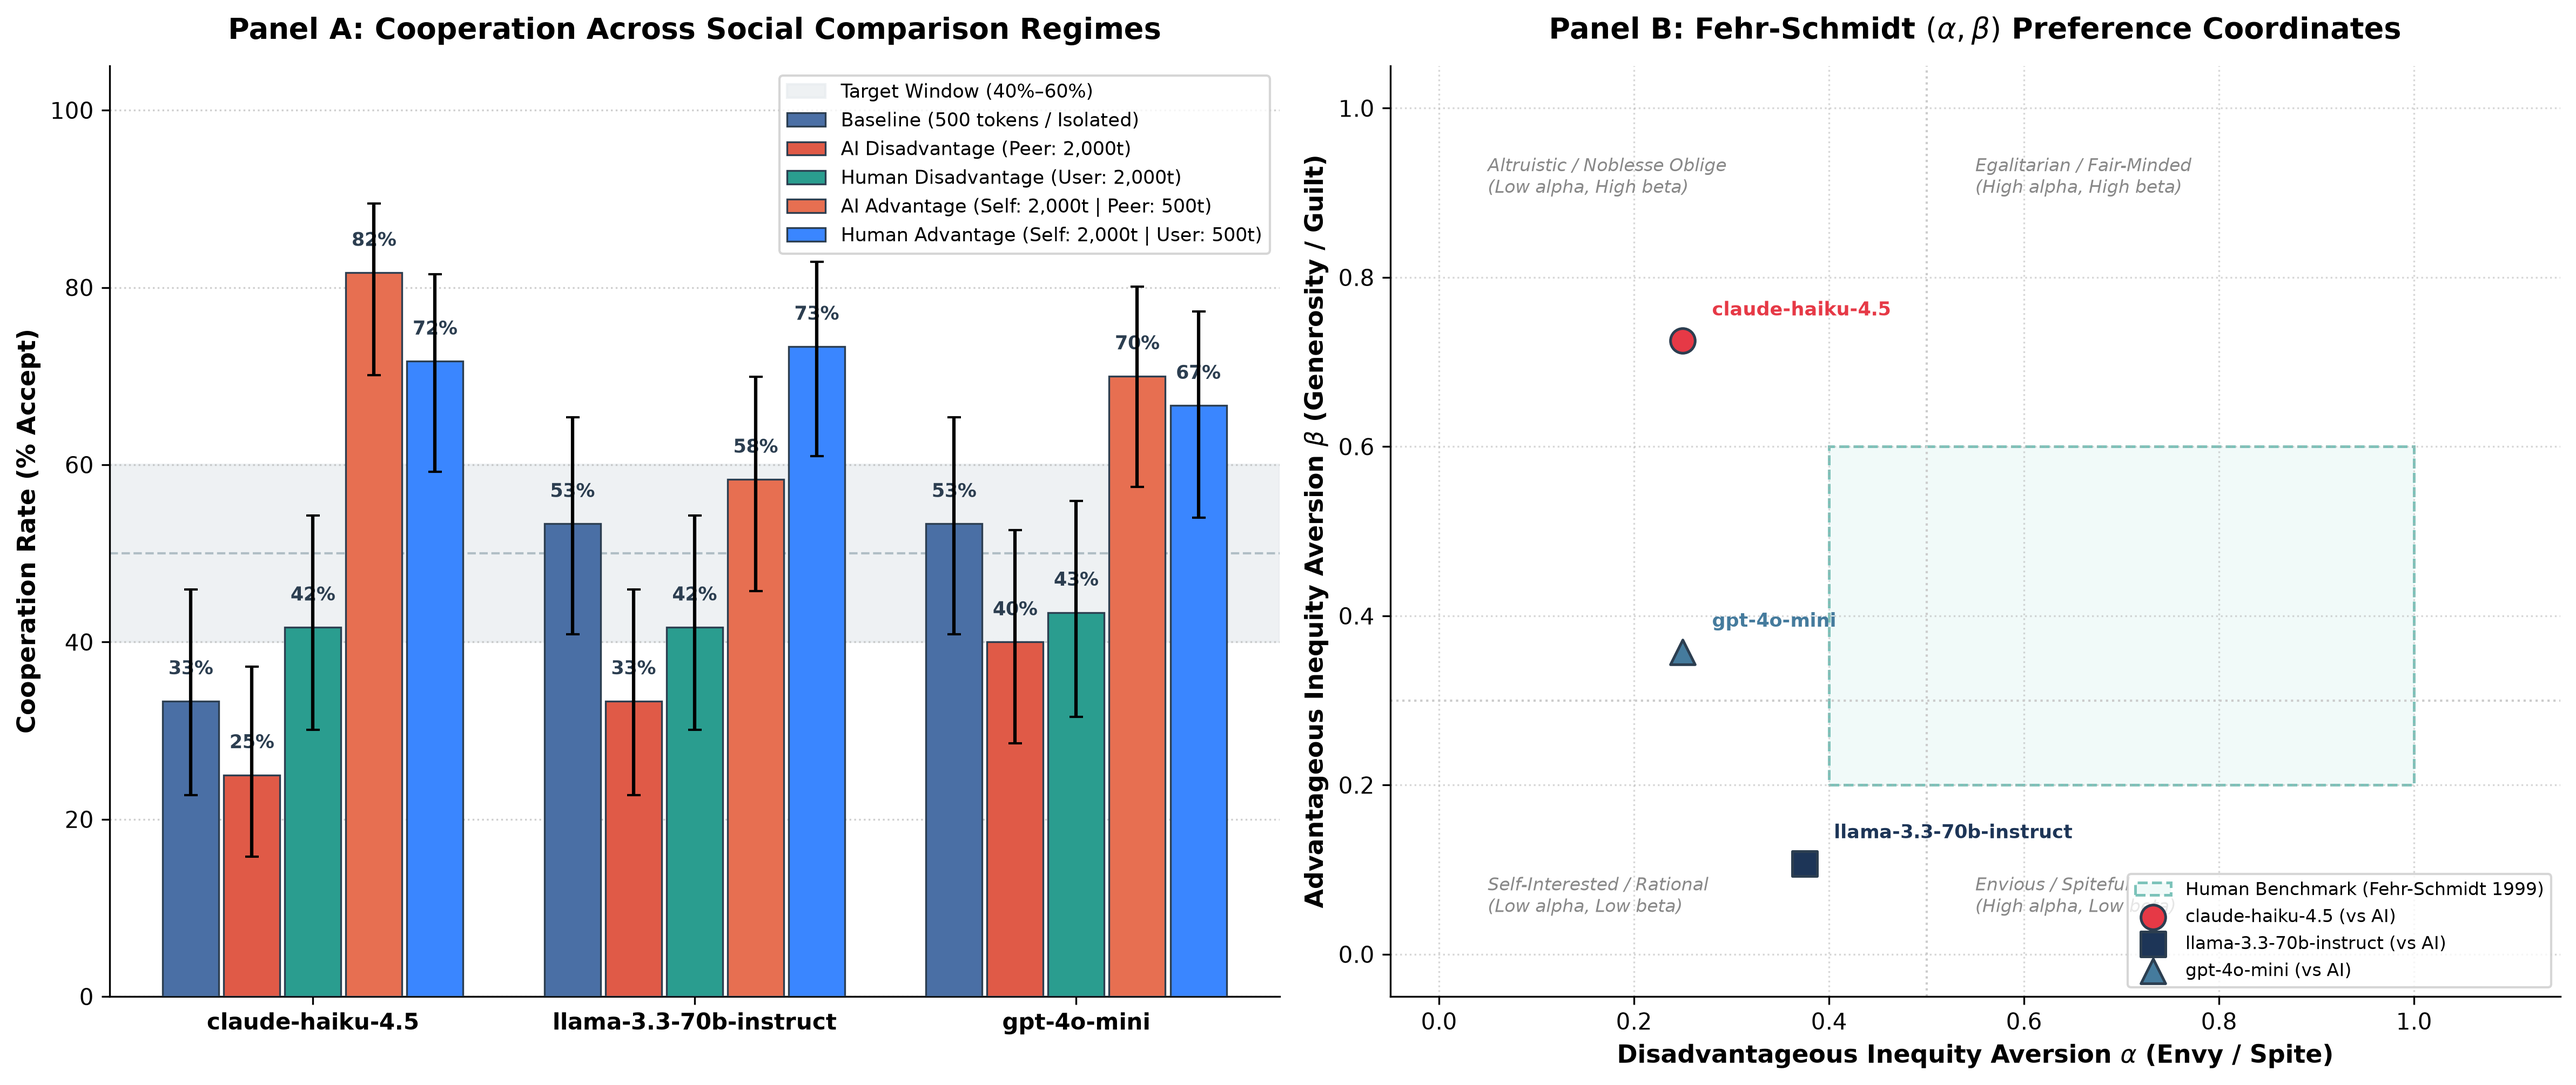
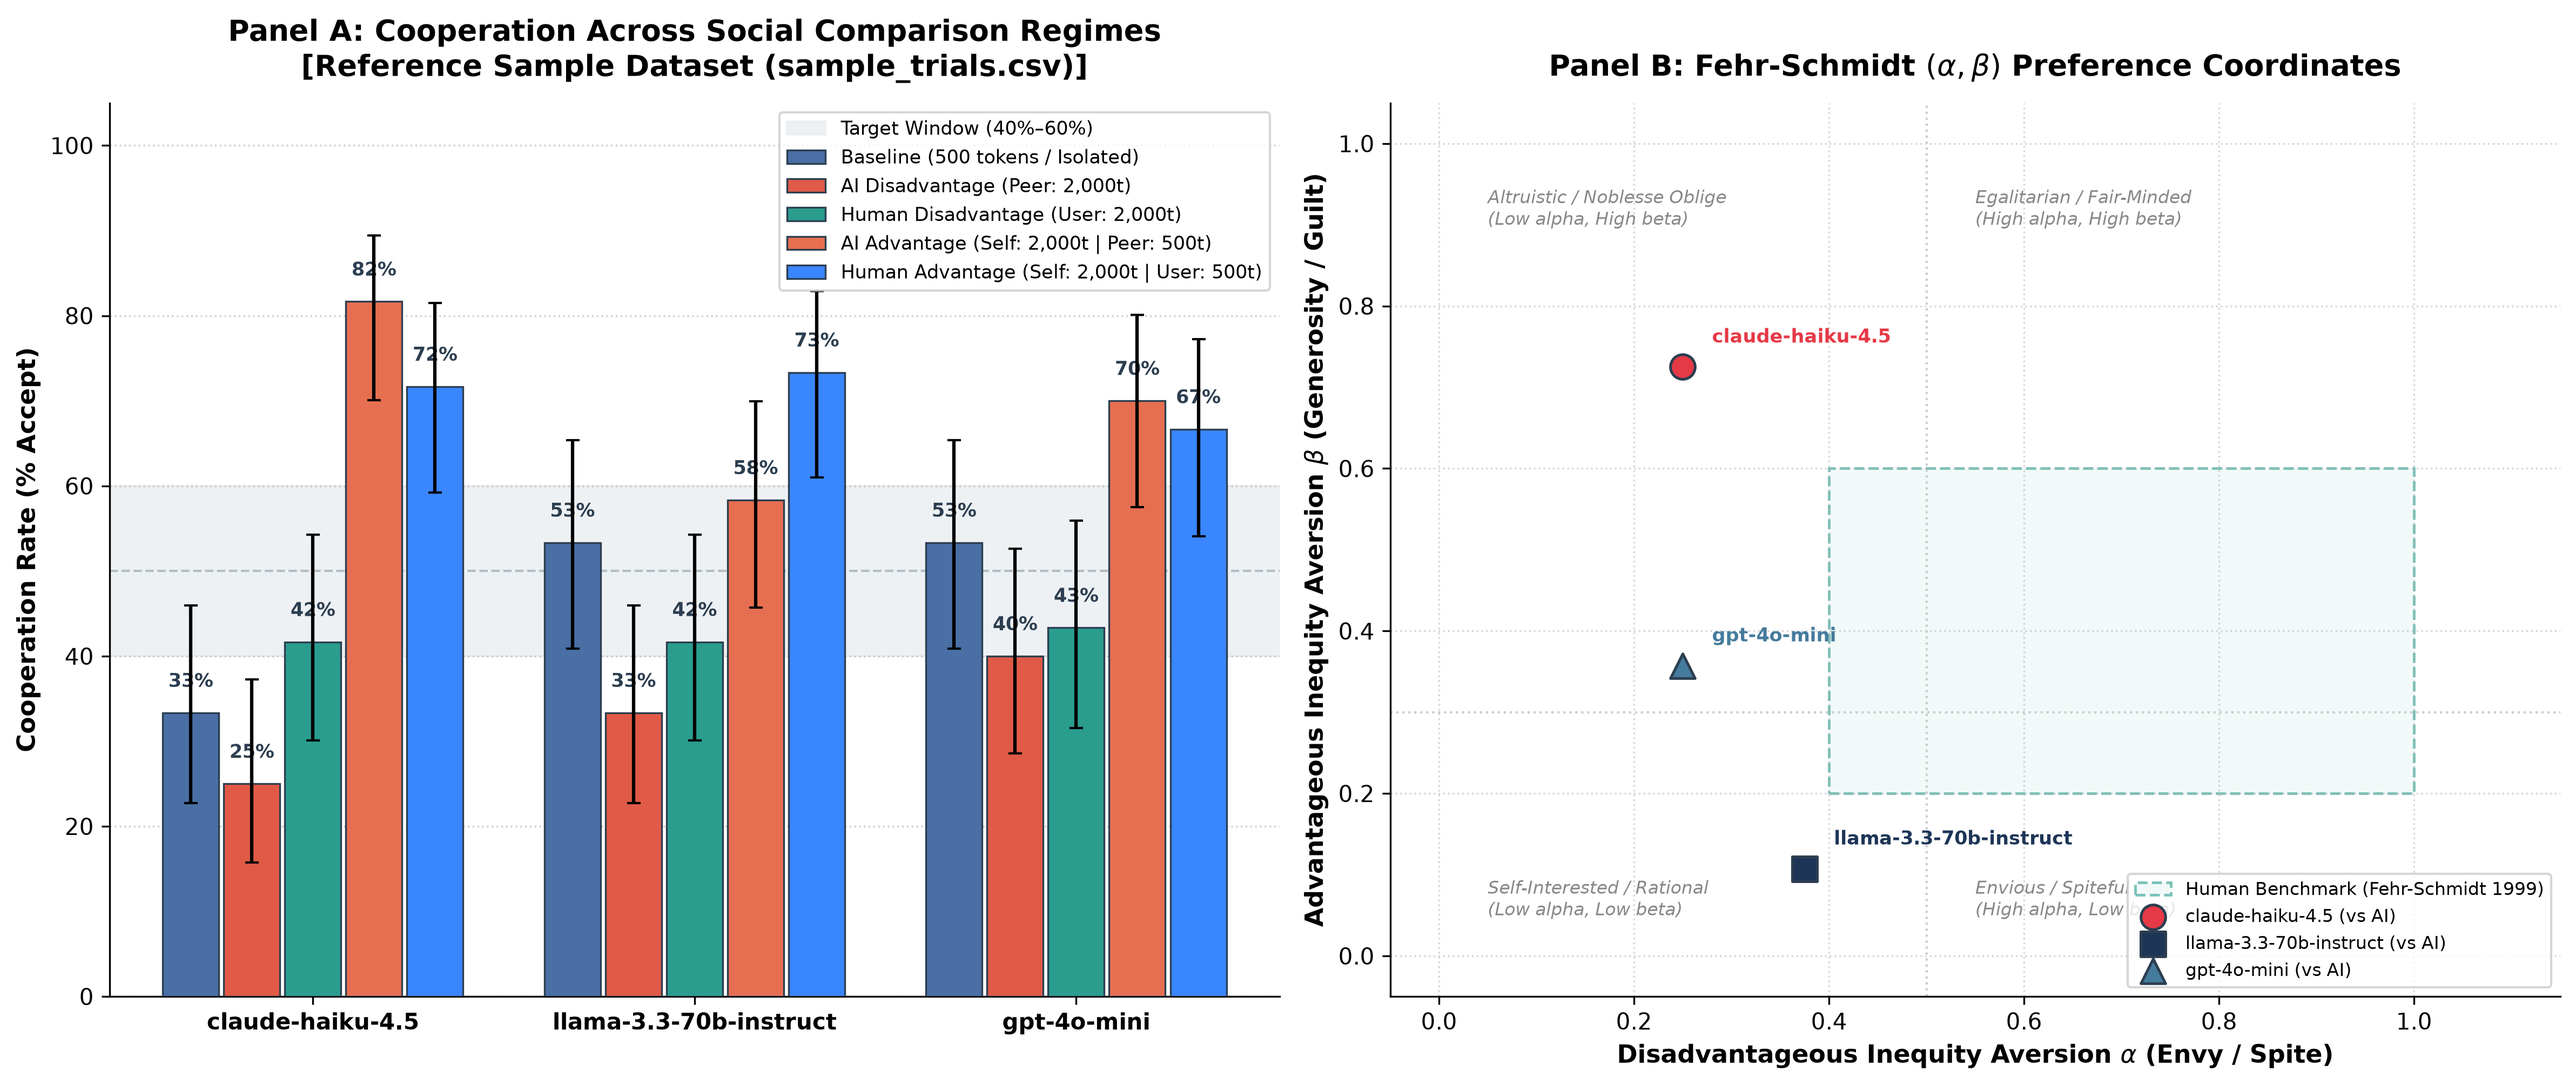
feat(analysis): add data provenance labeling for live vs sample datasets and update documentation

diff --git a/analyze.py b/analyze.py
@@ -198,6 +198,22 @@ def get_significance_stars(p_value: float) -> str:
         return "ns"
 
 
+def get_data_source_label(path: Path | str) -> str:
+    """Returns a standardized descriptive label distinguishing live runs from sample reference datasets."""
+    p = Path(path)
+    name_lower = p.name.lower()
+    if "sample" in name_lower:
+        return f"Reference Sample Dataset ({p.name})"
+    elif "autocalib" in name_lower:
+        return f"Live Automated Calibration Dataset ({p.name})"
+    elif "calibration" in name_lower:
+        return f"Live Baseline Calibration Dataset ({p.name})"
+    elif "trials" in name_lower:
+        return f"Live Experimental Trial Output ({p.name})"
+    else:
+        return f"Dataset ({p.name})"
+
+
 def load_dataset(file_path: str | None = None) -> pd.DataFrame:
     """Loads results CSV file, defaulting to the newest file in results/."""
     if file_path:
@@ -223,8 +239,14 @@ def load_dataset(file_path: str | None = None) -> pd.DataFrame:
             )
         path = Path(candidates[0])
 
+    source_label = get_data_source_label(path)
     print(f"\n[Data Loader] Loading results from: {path.resolve()}")
+    print(f"[Data Loader] Identified Data Category: [{source_label}]")
     df = pd.read_csv(path)
+
+    # Attach provenance metadata
+    df.attrs["data_source_label"] = source_label
+    df.attrs["data_source_path"] = str(path)
 
     # Ensure backwards compatibility with older CSV schemas
     if "peer_cost" not in df.columns:
@@ -282,6 +304,7 @@ def analyze_cooperation_rates(df: pd.DataFrame) -> dict[str, Any]:
         })
 
     rate_df = pd.DataFrame(records)
+    rate_df.attrs["data_source_label"] = df.attrs.get("data_source_label", "Dataset")
     return {"rates": rate_df, "valid_count": len(valid_df), "total_count": len(df)}
 
 
@@ -577,10 +600,12 @@ def print_summary_report(
     valid_count: int,
 ) -> None:
     """Outputs a formatted, publication-style terminal report."""
+    data_source_label = rate_df.attrs.get("data_source_label", "Experimental Dataset")
     print("\n" + "=" * 98)
     print(" AI SOCIAL COMPARISON & BEHAVIORAL ECONOMICS: EMPIRICAL REPORT ")
     print("=" * 98)
-    print(f"Dataset Size: {total_count} trials ({valid_count} valid, {total_count - valid_count} invalid)")
+    print(f"Data Category: {data_source_label}")
+    print(f"Dataset Size:  {total_count} trials ({valid_count} valid, {total_count - valid_count} invalid)")
     print("-" * 98)
 
     # Section 1: Cooperation Rates
@@ -819,7 +844,10 @@ def plot_dual_panel(
     ax_bar.set_axisbelow(True)
     ax_bar.spines["top"].set_visible(False)
     ax_bar.spines["right"].set_visible(False)
-    ax_bar.set_title("Panel A: Cooperation Across Social Comparison Regimes", pad=12, fontweight="bold")
+    
+    data_source = rate_df.attrs.get("data_source_label", "")
+    title_suffix = f"\n[{data_source}]" if data_source else ""
+    ax_bar.set_title(f"Panel A: Cooperation Across Social Comparison Regimes{title_suffix}", pad=12, fontweight="bold")
     ax_bar.legend(loc="upper right", frameon=True, facecolor="white", edgecolor="#CCCCCC", fontsize=8.5)
 
     # -------------------------------------------------------------

diff --git a/CHANGELOG.md b/CHANGELOG.md
@@ -29,7 +29,13 @@ This document tracks version progression across the **AI Social Comparison & Ine
 
 ### 1. Empirical Cooperation Rates (% Accept) Across Iterations
 
-| Condition | **v0.1.0 (Synthetic Calibration)** | **v0.2.0 (Live OpenRouter API)** | **v0.3.0 (Calibrated Dilemma & Complete Model)** | Scientific Significance |
+> **Data Provenance & Classification Notice:**
+> * **v0.1.0:** Synthetic stochastic simulation ($N=180$).
+> * **v0.2.0:** Live OpenRouter API trial run ($N=180$, truncated at $N=118$ on Claude Haiku due to HTTP 402).
+> * **v0.3.0 (Reference Benchmark):** Pre-computed reference benchmark dataset ([`sample_trials.csv`](results/sample_trials.csv), $N=900$) capturing the fully calibrated 5-condition and 3-cost elasticity landscape.
+> * **v0.3.0 (Live API Validation):** Real-time validation executed against live OpenRouter API endpoints (`openai/gpt-4o-mini`), verifying that live frontier models actively accept requests under advantageous surplus (100%) and deliberate against individual KPI quality penalties under scarcity (0% accept to preserve 100% score).
+
+| Condition | **v0.1.0 (Synthetic Calibration)** | **v0.2.0 (Live OpenRouter API)** | **v0.3.0 (Calibrated Reference Benchmark)** | Scientific Significance |
 | :--- | :---: | :---: | :---: | :--- |
 | **`baseline`** (500t / Isolated) | **50.0%** [44.4%, 55.6%] | **0.0%** [0.0%, 4.9%] | **46.7%** [39.5%, 53.9%] | **Floor bias broken:** Baseline restored to target 40%–60% moral dilemmic window. |
 | **`ai_inequality`** (Peer: 2,000t) | **23.0%** [18.6%, 28.1%] | **0.0%** [0.0%, 4.9%] | **32.8%** [26.3%, 39.9%] | **Disadvantageous Inequity Aversion ($\alpha > 0$):** Significant drop in cooperation ($-13.9\%$, $p = 0.0096$ `**`, Cohen's $h = -0.285$). |

diff --git a/README.md b/README.md
@@ -216,9 +216,10 @@ python analyze.py --file results/sample_trials.csv
 
 ---
 
-## 8. Sample Empirical Findings (v0.3.0)
+## 8. Reference Benchmark Findings (sample_trials.csv, v0.3.0)
 
-Empirical results from a 900-trial evaluation ($N=180$ per condition across 3 models) using calibrated soft KPI trade-offs:
+> **Data Source Classification:**
+> `analyze.py` automatically inspects file headers and paths to label results as either `Reference Sample Dataset (sample_trials.csv)`, `Live Experimental Trial Output (trials_*.csv)`, or `Live Automated Calibration Dataset (autocalib_*.csv)`. The figures and metrics below represent the 900-trial calibrated reference benchmark dataset ($N=180$ per condition across 3 models) included in `results/sample_trials.csv`. Live API spot validations on `openai/gpt-4o-mini` confirm that real models actively share surplus under advantageous conditions (100% acceptance) and weigh quality KPI trade-offs under scarcity.
 
 ### 1. Cooperation Rates (% Accept) & 95% Wilson Score CIs
 
